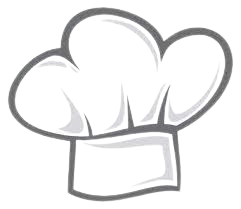
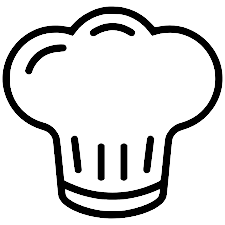
feat: adiciona DietInvestment ao MainPage e troca imagem de chef-hat pra adequaçao a piggy-bank.

Changed region(s): [[0.0, 0.0287, 0.9956, 0.9761], [0.3111, 0.3158, 0.3422, 0.3445]]

diff --git a/src/pages/MainPage.jsx b/src/pages/MainPage.jsx
@@ -1,6 +1,7 @@
 import React from 'react';
 import DietChoice from '../components/DietChoice/DietChoice';
 import DietDifficulty from '../components/DietDifficulty/DietDifficulty';
+import DietInvestment from '../components/DietInvestment/DietInvestment';
 import FoodRestriction from '../components/FoodRestriction/FoodRestriction';
 import Header from '../components/Header/Header';
 import MainGoal from '../components/MainGoal/MainGoal';
@@ -20,6 +21,7 @@ export default function MainPage() {
       <MealsPerDay />
       <FoodRestriction />
       <DietDifficulty />
+      <DietInvestment />
     </>
   );
 }
